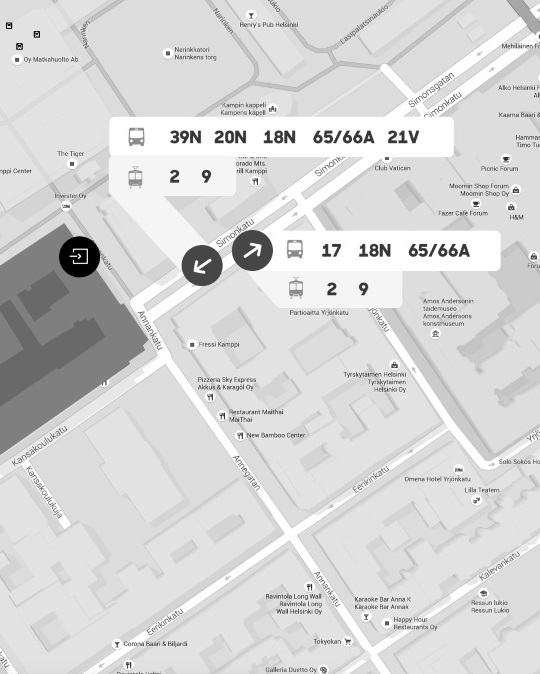
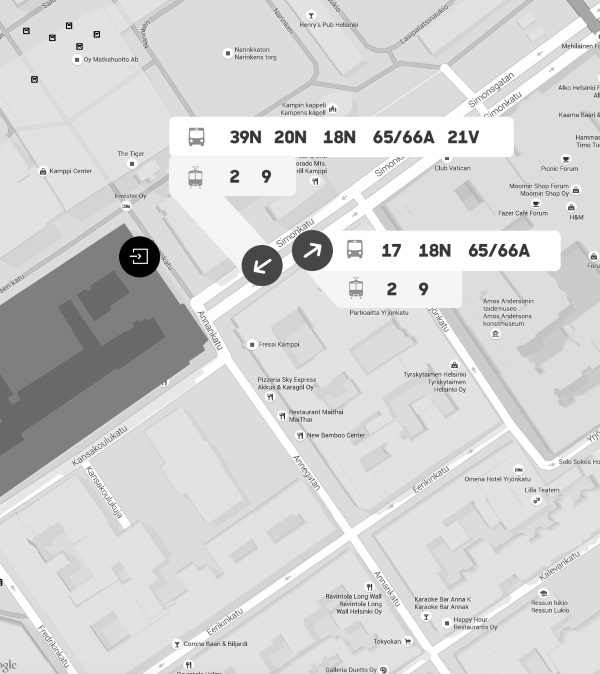
Adapted the page for 1200px width

diff --git a/NodeJs/public/css/common.css b/NodeJs/public/css/common.css
@@ -23,14 +23,14 @@
 
 b {font-weight:bold;}
 
-body {max-width:1080px; max-height:1920px; font-family:'SharpSans'; color:black; background-color:white; overflow-x:hidden;}
+body {max-width:1200px; max-height:1920px; font-family:'SharpSans'; color:black; background-color:white; overflow-x:hidden;}
 
 #document {position:relative; width:100%; height:100%;}
 
 #calendar {height:890px; padding-left:48px; color:white; background-color:rgb(55, 53, 53);}
 #calendar .logo {margin-top:60px;}
 #calendar .weekdays {margin-top:60px; overflow:hidden; text-align:center; line-height:80px; font-size:72px;}
-#calendar .weekdays .item {float:left; color:#131212; margin-left:45px;}
+#calendar .weekdays .item {float:left; color:#131212; margin-left:43px;}
 #calendar .weekdays .item.weekend {color:#4e4c4c;}
 #calendar .weekdays .item:first-child {color:white; font-size:80px; margin-left:0;}
 #calendar .weekdays .item .dayOfWeek {font-size:50px; font-weight:bold;}
@@ -62,21 +62,21 @@ body {max-width:1080px; max-height:1920px; font-family:'SharpSans'; color:black;
 #schedule .left .wrapper {}
 #schedule .left .stop {position:absolute; width:100%; background-color:white;}
 #schedule .left .stop .header {padding:43px 25px; font-weight:bold; font-size:30px;}
-#schedule .left .stop .header img {margin-right:18px;}
+#schedule .left .stop .header img {margin-right:22px;}
 #schedule .left .stop table {table-layout:fixed; width:100%; font-size:28px;}
 #schedule .left .stop table td {overflow:hidden; padding:19px 0;}
 #schedule .left .stop table tr:nth-child(odd) {background-color:#e5e5e5;}
 #schedule .left .stop table tr:nth-child(1n+9) {display:none;}
-#schedule .left .stop table tr td:nth-child(1) {width:20%; text-align:center; font-weight:bold;}
-#schedule .left .stop table tr td:nth-child(2) {width:62%; padding-left:12px;}
+#schedule .left .stop table tr td:nth-child(1) {width:19%; text-align:center; font-weight:bold;}
+#schedule .left .stop table tr td:nth-child(2) {width:63%; padding-left:12px;}
 #schedule .left .stop table tr td:nth-child(3) {width:18%; padding-right:16px; text-align:center; font-weight:bold;}
 #schedule .right {float:right; width:50%; height:100%; position:relative; overflow:hidden;}
 #schedule .right .map {position:absolute; width:100%; height:100%;}
 #schedule .right .map .icon {position:absolute; display:none;}
 #schedule .right .map .icon-1 {top:96px; left:152px; display:block;}
 #schedule .right .map .icon-2 {top:300px; left:276px;}
-#schedule .right .map .icon-3 {top:244px; left:181px;}
-#schedule .right .map .icon-4 {top:229px; left:231px;}
+#schedule .right .map .icon-3 {top:244px; left:241px;}
+#schedule .right .map .icon-4 {top:229px; left:291px;}
 
 #taxi {height:356px; position:relative; background-color:#ffde00;}
 #taxi .frames {display:table; width:100%; height:100%;}

diff --git a/NodeJs/public/js/index/calendar.js b/NodeJs/public/js/index/calendar.js
@@ -35,7 +35,7 @@
         };
 
         var renderWeekdays = function(now){
-            var dayMoments = _.map(_.range(0, 8), function(offset){
+            var dayMoments = _.map(_.range(0, 9), function(offset){
                 var cloneNow = moment(now);
                 return cloneNow.add(offset, 'd');
             });
